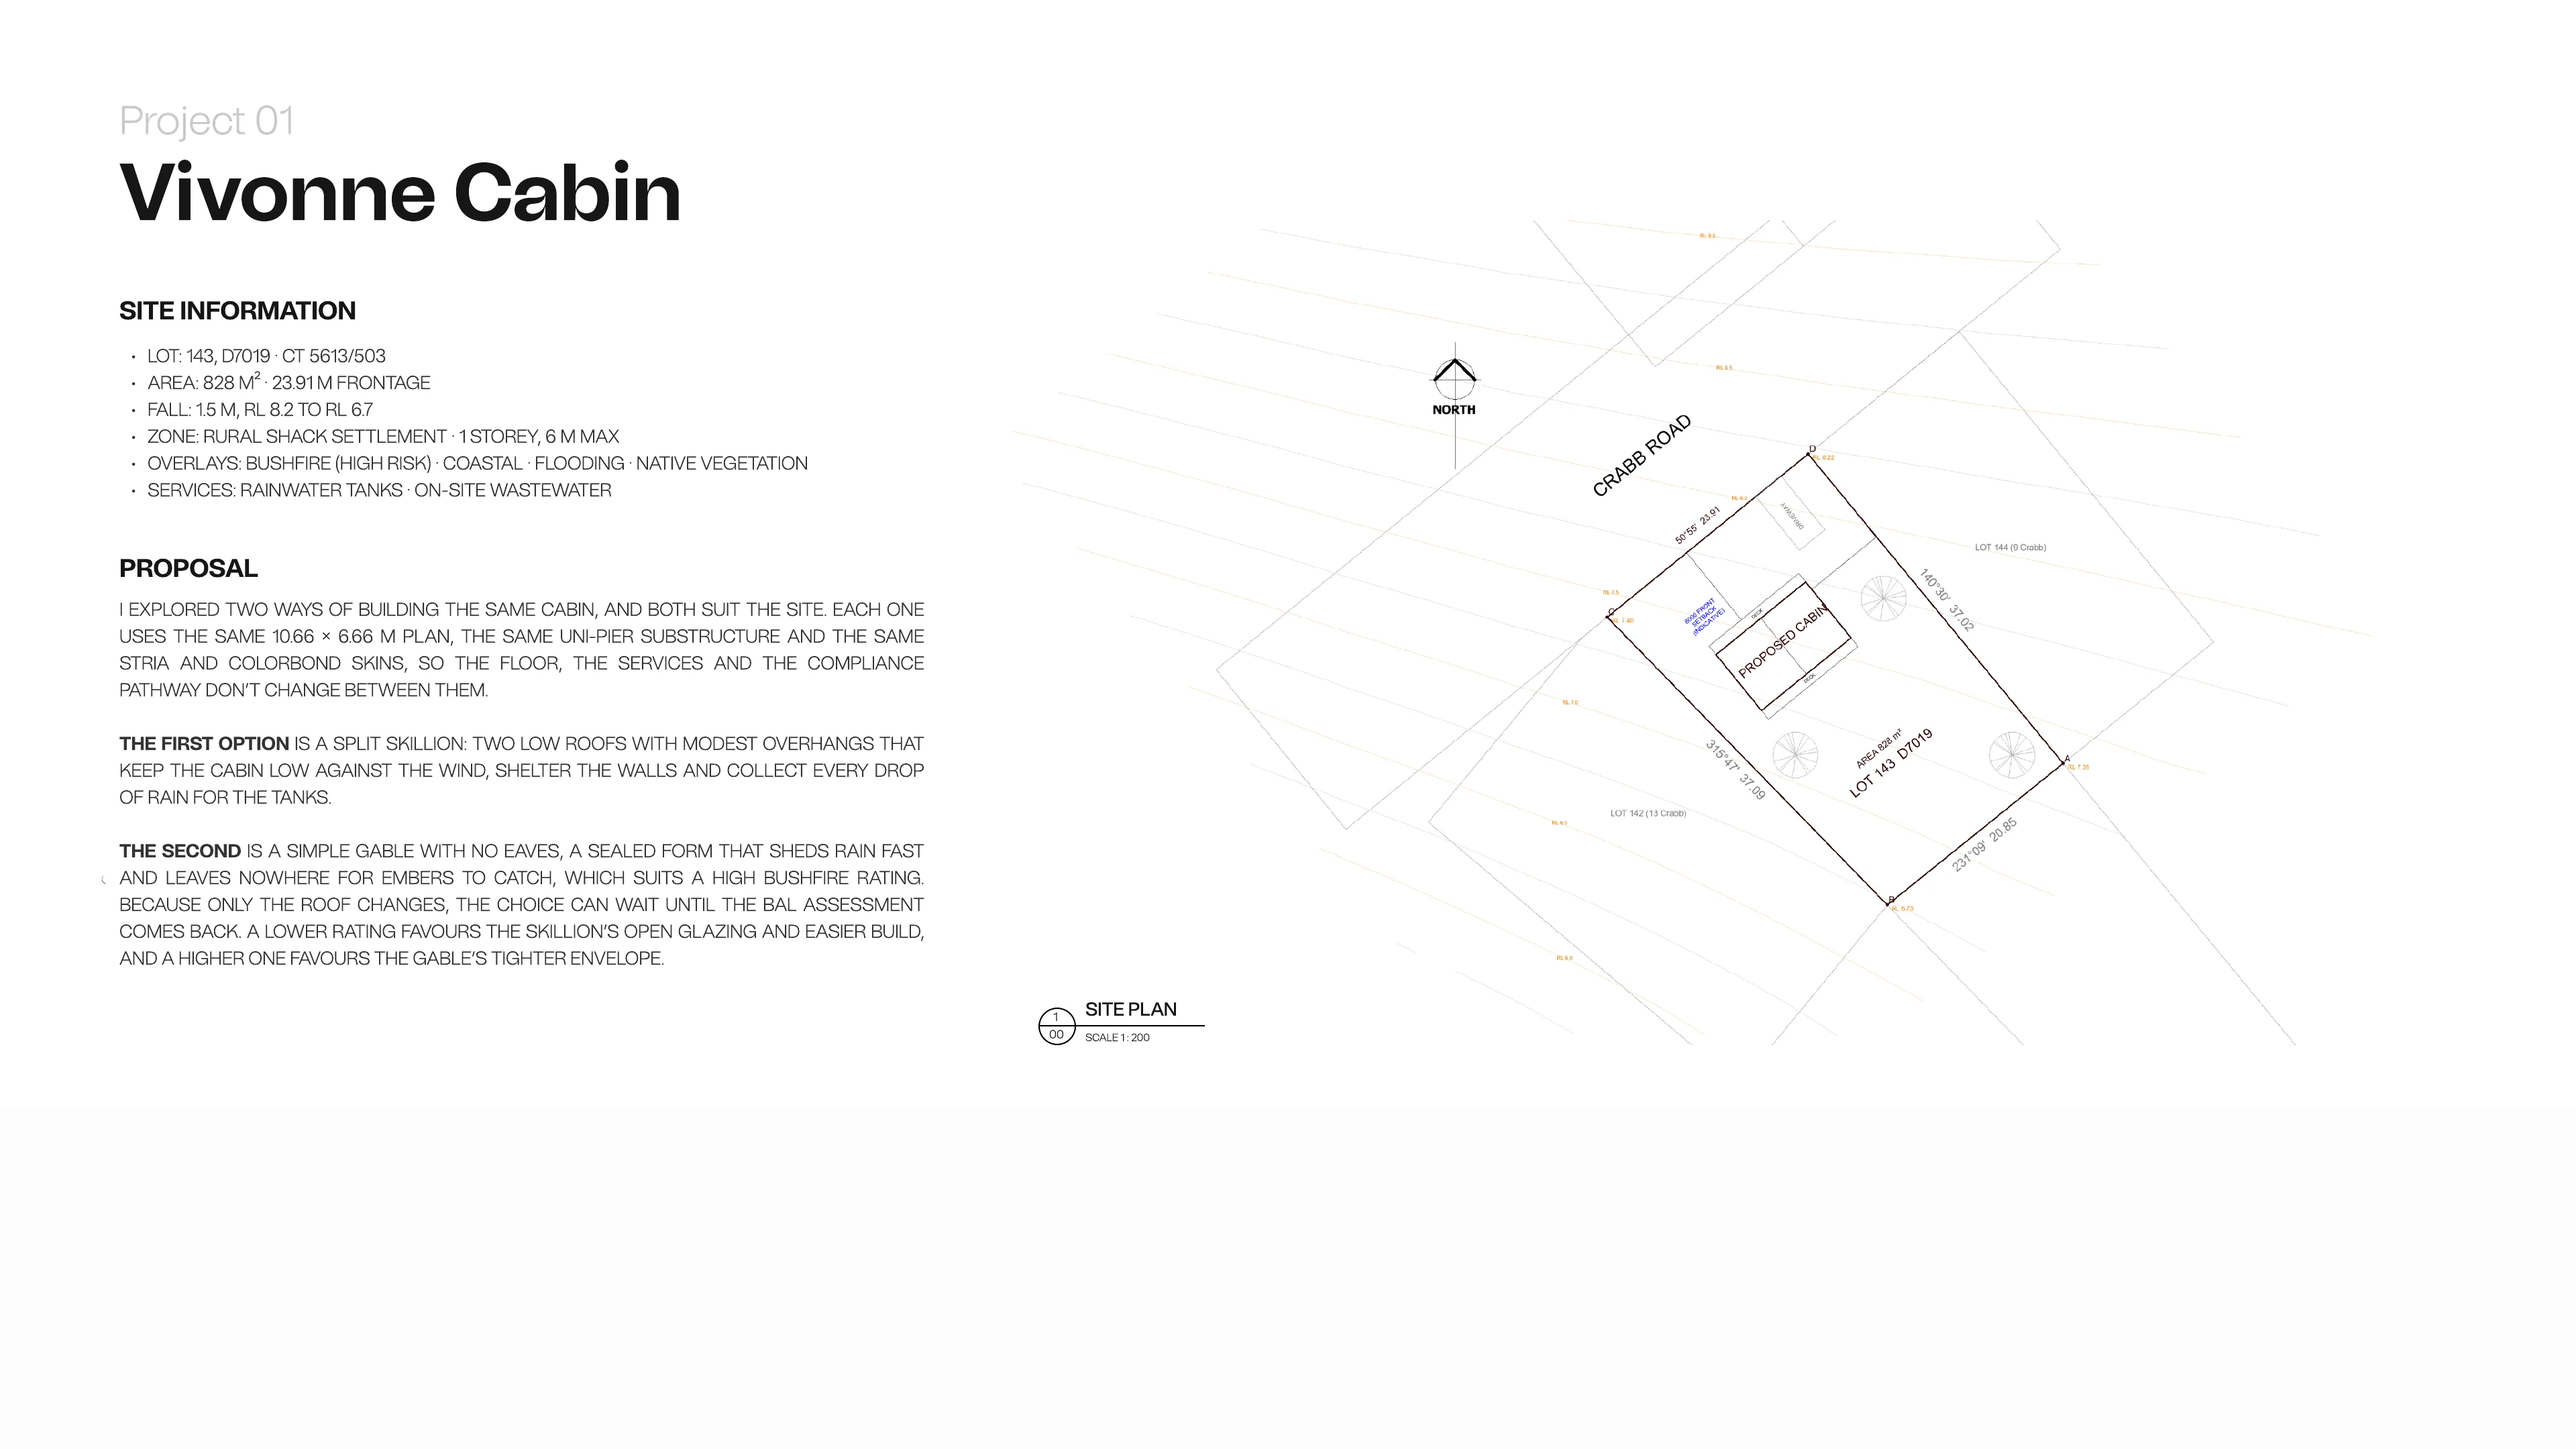
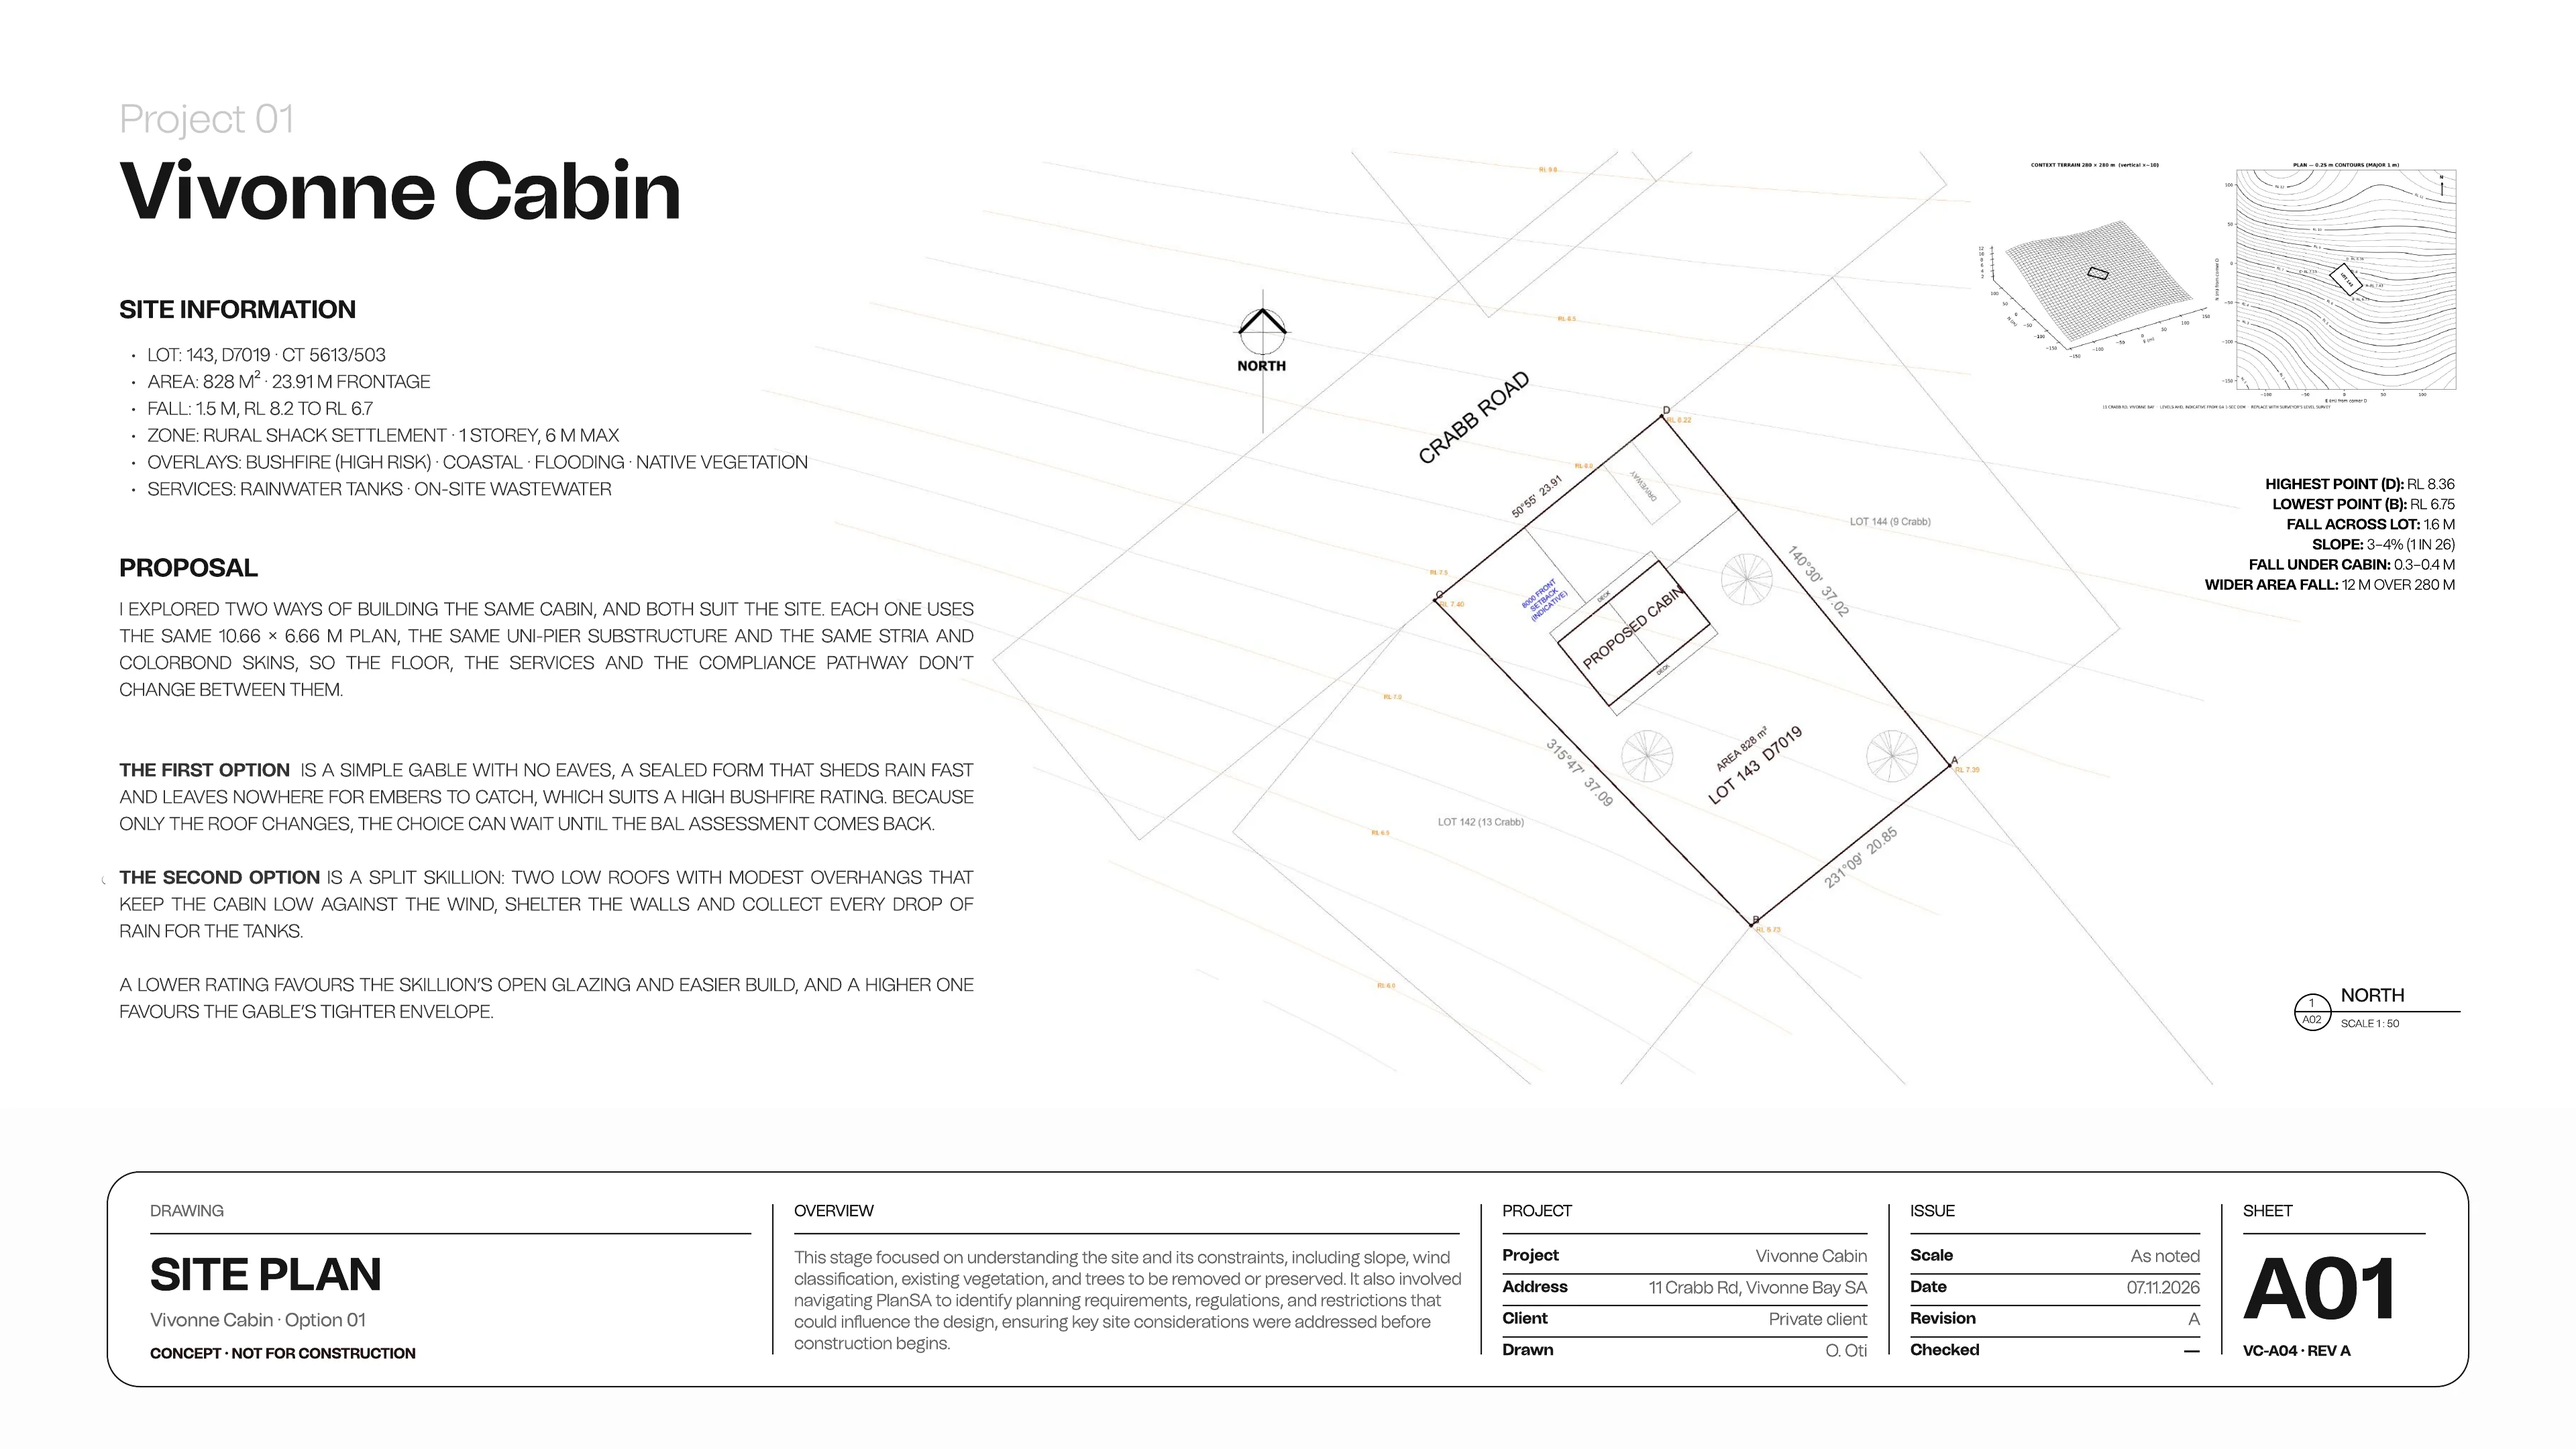
Vivonne Cabin: option 02 pages and the updated site plan
- Site plan (Frame 38V, A01): adds the terrain model and site levels,
  and the proposal now names the gable as the first option.
- Option 02 opens with the "Vivonne Cabin 02" title page, then its
  overview, floor plan and elevations (Frame 44, A06), section and
  detail (Frame 41, A07), roof and tie-down (Frame 51, A08) and its
  compliance blow-out (Frame 54). The option 02 files are renumbered
  08–13 to keep the order.

Claude-Session: https://claude.ai/code/session_01XrsNxmTzmpsovjqss1yHEC

diff --git a/projects/books.js b/projects/books.js
@@ -118,7 +118,7 @@ window.BOOKS =
     "frames": [
       {
         "src": "assets/images/vivonne-01-site.webp",
-        "alt": "Vivonne Cabin, site and proposal: lot 143 on Crabb Road, 828 m² falling 1.5 m towards the bay, with its bushfire, coastal, flooding and native vegetation overlays, and notes on the two options for the same 10.66 × 6.66 m cabin."
+        "alt": "Vivonne Cabin, site plan (sheet A01): lot 143 on Crabb Road with the proposed cabin, the north point and boundary dimensions, and a 3D terrain model and contour map of the site with its levels: highest point RL 8.36, lowest RL 6.75, a 1.6 m fall across the lot and a 3–4% slope. Beside it, the site information and the proposal: two ways of building the same 10.66 × 6.66 m cabin, the first a simple gable with no eaves that suits a high bushfire rating, the second a split skillion with modest overhangs."
       },
       {
         "src": "assets/images/vivonne-02-option1.webp",
@@ -145,16 +145,28 @@ window.BOOKS =
         "alt": "Vivonne Cabin, option 01, compliance blow-out: an exploded view of the roof, wall and floor systems, each annotated with how it meets the NCC 2022 Housing Provisions and AS 3959, from the corrosion-rated Colorbond roof to the BAL-40 rated cladding."
       },
       {
-        "src": "assets/images/vivonne-08-option2.webp",
+        "src": "assets/images/vivonne-08-option2-title.webp",
+        "alt": "Vivonne Cabin 02: a render of the split-skillion cabin at sunset, two offset roofs over timber-clad, glazed walls on steel piers, with its deck and stair, under the title Vivonne Cabin 02, Building Design & Drafting, and Obinna's contact details."
+      },
+      {
+        "src": "assets/images/vivonne-09-option2.webp",
         "alt": "Vivonne Cabin, option 02: a 3D view of the split-skillion cabin, two offset roofs over the same plan on steel piers, beside the project details and context notes."
       },
       {
-        "src": "assets/images/vivonne-09-option2-plans.webp",
-        "alt": "Vivonne Cabin, option 02: floor plan with dimensions and room areas, and the four elevations at 1:50."
+        "src": "assets/images/vivonne-10-option2-plans.webp",
+        "alt": "Vivonne Cabin, option 02, floor plan and elevations (sheet A06, 1:50): the floor plan with dimensions and room areas, and the north, south, east and west elevations of the split-skillion cabin. Overview: this stage developed the floor plan and elevations, planning internal spaces, positioning doors and windows, establishing dimensions and specifying materials and finishes."
       },
       {
-        "src": "assets/images/vivonne-10-option2-section.webp",
-        "alt": "Vivonne Cabin, option 02: section 01 through the living area and bathroom at 1:25, showing the Colorbond roof, Stria-clad timber walls and Structaflor floor on galvanised Uni-Piers, with a detail at 1:10."
+        "src": "assets/images/vivonne-11-option2-section.webp",
+        "alt": "Vivonne Cabin, option 02, section and detail (sheet A07): section 01 through the cabin under its skillion roof at 1:25, with a detail at 1:10. Levels: the floor at ±0, natural ground at −1102 and the top of the wall plate at +3000."
+      },
+      {
+        "src": "assets/images/vivonne-12-option2-roof.webp",
+        "alt": "Vivonne Cabin, option 02, roof and wall system and tie-down (sheet A08, 1:25): a 3D cut-away of the skillion roof and wall build-up, from the Colorbond Surfmist sheeting at 5° pitch, purlins at 1200 centres and sarking down to the Hardie cavity battens, beside a tie-down detail and its notes to NCC 2022 and AS 1684.2."
+      },
+      {
+        "src": "assets/images/vivonne-13-option2-compliance.webp",
+        "alt": "Vivonne Cabin, option 02, compliance blow-out: an exploded view of the split-skillion cabin's roof, wall and floor systems, each annotated with how it meets the NCC 2022 Housing Provisions and AS 3959."
       }
     ]
   },

diff --git a/README.md b/README.md
@@ -149,7 +149,7 @@ Current books:
 | 01 Sting Rays | cover · moodboard · concept sketching · CAD · visualisation · visualisation detail · back cover |
 | 02 Super Slides | cover · moodboard · concept sketching · CAD · colourways · render · back cover |
 | 03 Tangerine | cover · moodboard · brief and sketching · CAD · colourways · the stand · back cover |
-| 04 Vivonne Cabin | cover · site and proposal · option 01 (gable): 3D view, plans and elevations, section, details, schedules, compliance blow-out · option 02 (split skillion): 3D view, plans and elevations, section · back cover |
+| 04 Vivonne Cabin | cover · site and proposal · option 01 (gable): 3D view, floor plan and elevations (A02), section (A03), details (A04), schedules, compliance blow-out · option 02 (split skillion): title page, 3D view, floor plan and elevations (A06), section (A07), roof and tie-down (A08), compliance blow-out · back cover |
 | 05 Smith Residence | cover · title page · site plan (A01) · project overview · floor plan (A03) · kitchen blow-out (A04) · elevations (A05) · section and detail (A06) · back cover |
 | 06 Blackwood Cafe | cover · one blank spread (its pages aren't in yet) · back cover |
 
@@ -163,16 +163,19 @@ sting-rays-2-sketching.webp        super-slides-2-sketching.webp
 sting-rays-3-cad.webp              super-slides-3-cad.webp
 sting-rays-4-visualisation.webp    super-slides-4-colourways.webp
 sting-rays-5-detail.webp           super-slides-5-render.webp
-vivonne-01-site.webp              (2026 portfolio, p. 4)
+vivonne-01-site.webp              (Frame 38V, sheet A01)
 vivonne-02-option1.webp           (Frame 34)
 vivonne-03-plans.webp             (Frame 33, sheet A02)
 vivonne-04-section.webp           (Frame 32, sheet A03)
 vivonne-05-details.webp           (Frame 35, sheet A04)
 vivonne-06-schedules.webp         (p. 10)
 vivonne-07-compliance.webp        (Frame 36)
-vivonne-08-option2.webp           (p. 12)
-vivonne-09-option2-plans.webp     (p. 13)
-vivonne-10-option2-section.webp   (p. 14)
+vivonne-08-option2-title.webp     (the "Vivonne Cabin 02" title page)
+vivonne-09-option2.webp           (2026 portfolio, p. 12)
+vivonne-10-option2-plans.webp     (Frame 44, sheet A06)
+vivonne-11-option2-section.webp   (Frame 41, sheet A07)
+vivonne-12-option2-roof.webp      (Frame 51, sheet A08)
+vivonne-13-option2-compliance.webp (Frame 54)
 tangerine-1-moodboard.webp
 tangerine-2-sketching.webp
 tangerine-3-cad.webp
